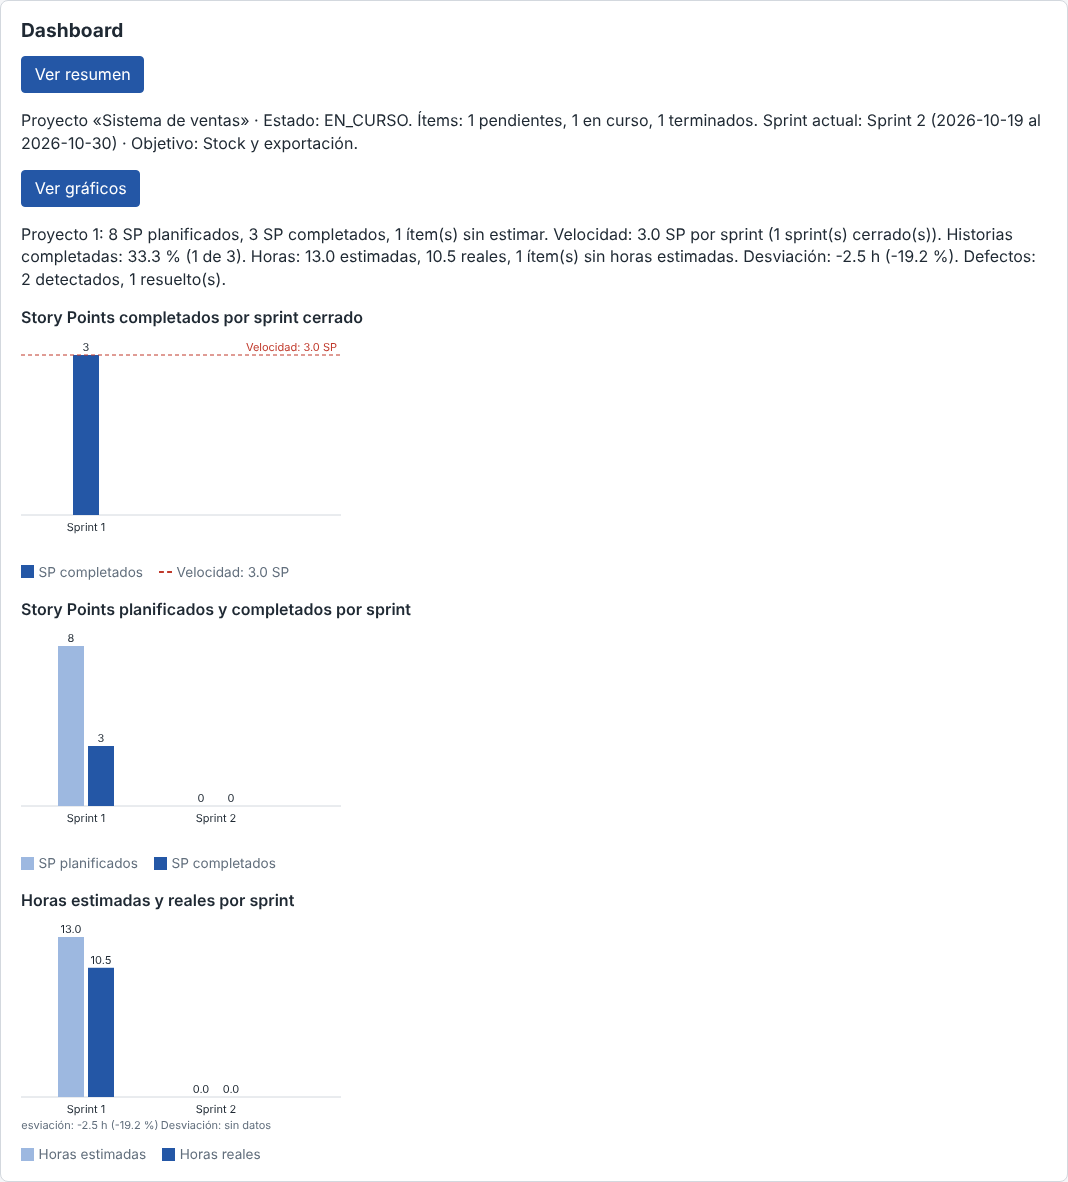
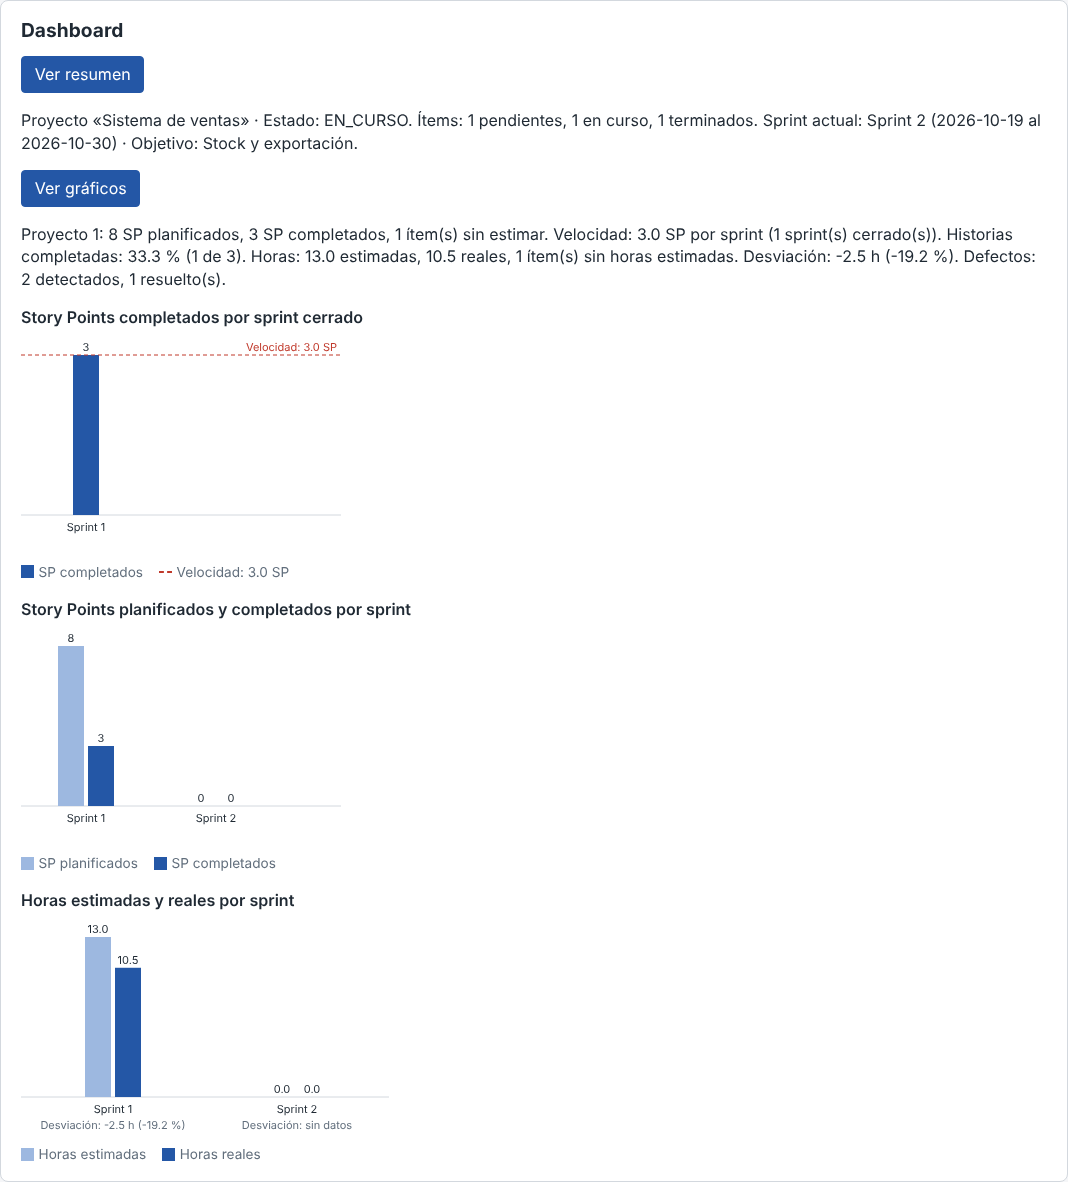
docs(TEC-07): aplicar la revisión del PR #161
Refs #70

Changed region(s): [[0.0309, 0.7919, 0.1854, 0.9746], [0.2163, 0.9137, 0.309, 0.9746], [0.1854, 0.9137, 0.2163, 0.9442]]

diff --git a/docs/ia/registro.md b/docs/ia/registro.md
@@ -103,8 +103,8 @@ La consigna permite usar herramientas de IA, siempre que todo resultado sea comp
 | 30/10/2026 | García Santiago | HU-28 | Paso 0 (checklist de `docs/antes-de-empezar.md`), SDD con el alcance del Issue #46 (solo las horas) y el registro de su aprobación, merge de `main` con HU-19, escenarios BDD con godog, firmas vacías y tests (RED), código (GREEN) de `CorrectHours`, de `GetByID` y `Update` en memoria y PostgreSQL, del endpoint `PATCH /api/esfuerzos/{id}/horas` y del formulario "Corregir esfuerzo", el test de la segunda lectura agregado después del GREEN, prueba de punta a punta con curl y de la interfaz en el navegador integrado, mediciones de cobertura sin base (rama y `main` en una copia temporal con `git worktree`), evidencia TDD, cobertura, README y este registro, con Claude Code (Anthropic, modelo Claude Opus 5.5, ID `claude-opus-5-5`). Segundo asistente: revisión de cada paso y redacción de los prompts, con Claude (Anthropic) en una conversación aparte | García Santiago decidió ajustarse al Issue (solo las horas, con la alternativa de los cuatro campos descartada), pidió el test de la rama defensiva de `CorrectHours` y autorizó cada commit, push y cambio en el Issue; Peñalbé Hernán aprobó la SDD el 30/10/2026 con 3 SP y dos ajustes (HU-28 en el Sprint 4 con capacidad sobrante y cambios en paralelo con HU-15 y HU-19) |
 | 30/10/2026 | Cardozo Leandro | HU-16 | Paso 0 (checklist de `docs/antes-de-empezar.md`), SDD con la comparación del alcance con HU-48 y sus ajustes, escenarios BDD con godog, firmas vacías y tests (RED), código (GREEN) de `Update` y `nameTaken` en `internal/member`, de `GetByID` y `Update` en memoria y PostgreSQL, del endpoint `PUT /api/integrantes/{id}` y del formulario "Modificar integrante", pruebas con PostgreSQL 17 en Docker, merge de `main` con HU-19 y HU-28 (conflicto en `statusFor`), prueba de la interfaz en el navegador integrado, mediciones de cobertura sin base y con base (RED y `main` en copias temporales con `git worktree`), evidencia TDD, cobertura, README y este registro, con Claude Code (Anthropic, modelo Claude Opus 5.5, ID `claude-opus-5-5`). Segundo asistente: revisión de la SDD, de los tests (RED), del código (GREEN) y de la evidencia, y redacción de los prompts, con Claude (Anthropic) en una conversación aparte | Cardozo Leandro revisó cada paso, autorizó cada commit y la recreación de la base local de pruebas con Docker; Peñalbé Hernán aprobó la SDD el 30/10/2026 con 2 ajustes (la opción A de P1: HU-16 cubre nombre y rol y HU-48 no se crea, y los métodos `GetByID` y `Update` de `brokenMemberRepository` en `members_update_test.go`, en el commit RED) |
 | 30/10/2026 | Buttini Cristobal | HU-17 | Paso 0 (checklist de `docs/antes-de-empezar.md`), SDD, criterios definitivos del Issue #31, escenarios BDD con godog, tests (RED), código (GREEN) de `member.Manager.List`, del endpoint `GET /api/proyectos/{id}/integrantes` y de la tabla de integrantes de la interfaz, prueba de punta a punta de la API con curl, mediciones de cobertura sin base (rama y `main` en una copia temporal con `git worktree`), evidencia TDD, cobertura, README y este registro, con Claude Code (Anthropic, modelo Claude Opus 5.5, ID `claude-opus-5-5`) | Peñalbé Hernán aprobó la SDD el 30/10/2026 sin ajustes, con D1 a D5 como estaban, y sugirió el `project.Repository` que falla de los tests de `History` de HU-14, que se usó; Buttini Cristobal autorizó cada commit y la edición de los criterios del Issue |
-| 30/10/2026 | Peñalbé Hernán | TEC-06 (actualización con HU-14 a HU-17, HU-19 y HU-28) | Relevamiento del código de `main` (rutas, formatos de respuesta, `statusFor`, repositorios, esquema y concurrencia) y actualización de `docs/documentacion-tecnica.md`: paquete `internal/member`, listado de sprints del proyecto, modificar las fechas del proyecto, corregir las horas de un esfuerzo, errores nuevos, tabla `members`; verificación de que todas las rutas del servidor están en la tabla de endpoints, con Claude Code (Anthropic) | Peñalbé Hernán pidió la actualización |
-| 30/10/2026 | Peñalbé Hernán | TEC-07 (manual de usuario) | Borrador de `docs/manual-de-usuario.md` a partir de la interfaz de `main` (`index.html` y `app.js`) y de los mensajes de error del código, script de Playwright que recorre la interfaz con un proyecto de ejemplo y toma las 19 capturas de `docs/img/manual-de-usuario/`, y verificación contra la API de los comportamientos descritos (voto repetido, fechas e IDs vacíos, velocidad), con Claude Code (Anthropic) | Peñalbé Hernán pidió el manual |
+| 30/10/2026 | Peñalbé Hernán | TEC-06 (actualización con HU-14 a HU-17, HU-19 y HU-28) | Relevamiento del código de `main` (rutas, formatos de respuesta, `statusFor`, repositorios, esquema y concurrencia) y actualización de `docs/documentacion-tecnica.md`: paquete `internal/member`, listado de sprints del proyecto, modificar las fechas del proyecto, corregir las horas de un esfuerzo, errores nuevos, tabla `members`; verificación de que todas las rutas del servidor están en la tabla de endpoints, con Claude Code (Anthropic, modelo Claude Opus 5.5, ID `claude-opus-5-5`) | Peñalbé Hernán pidió la actualización |
+| 30/10/2026 | Peñalbé Hernán | TEC-07 (manual de usuario) | Borrador de `docs/manual-de-usuario.md` a partir de la interfaz de `main` (`index.html` y `app.js`) y de los mensajes de error del código, script de Playwright que recorre la interfaz con un proyecto de ejemplo y toma las 19 capturas de `docs/img/manual-de-usuario/`, y verificación contra la API de los comportamientos descritos (voto repetido, fechas e IDs vacíos, velocidad), con Claude Code (Anthropic, modelo Claude Opus 5.5, ID `claude-opus-5-5`) | Peñalbé Hernán pidió el manual |
 | 30/10/2026 | Peñalbé Hernán | HU-37 (corrección de un defecto) | Diagnóstico de la nota de desviación cortada en el gráfico de horas del dashboard, script de Playwright que lo reproduce midiendo los textos del SVG, test de contenido (RED), corrección del ancho de los grupos en `graficoDeBarras` (GREEN) y actualización de la evidencia de HU-37 y de la cobertura, con Claude Code (Anthropic, modelo Claude Opus 5.5, ID `claude-opus-5-5`) | Peñalbé Hernán pidió la corrección |
 
 ## Incidentes

diff --git a/docs/manual-de-usuario.md b/docs/manual-de-usuario.md
@@ -154,7 +154,7 @@ Un ítem `TERMINADO` no se puede reestimar.
 
    ![Votos revelados, con diferencias](img/manual-de-usuario/09-poker-revelar.png)
 
-4. **Repetir la ronda (HU-24):** si hay diferencias y el equipo quiere volver a votar, tocá **Repetir ronda**. La misma sesión vuelve a `ABIERTA`, en la ronda siguiente y sin votos.
+4. **Repetir la ronda (HU-24):** si el equipo quiere volver a votar, tocá **Repetir ronda**. Lo habitual es hacerlo cuando hay diferencias, pero también se puede repetir aunque todos hayan votado lo mismo. La misma sesión vuelve a `ABIERTA`, en la ronda siguiente y sin votos.
 5. **Registrar la estimación acordada (HU-25):** en **Registrar estimación acordada**, tocá la carta que acordó el equipo. La sesión queda `CERRADA` y los story points se guardan en el ítem (columna **SP** del backlog).
 
    ![Estimación registrada](img/manual-de-usuario/10-poker-estimacion.png)
